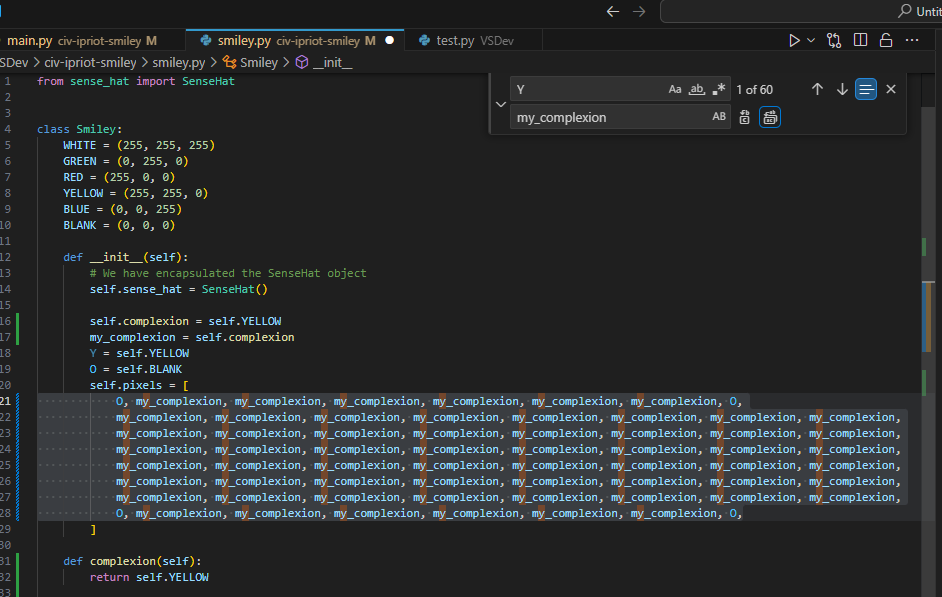
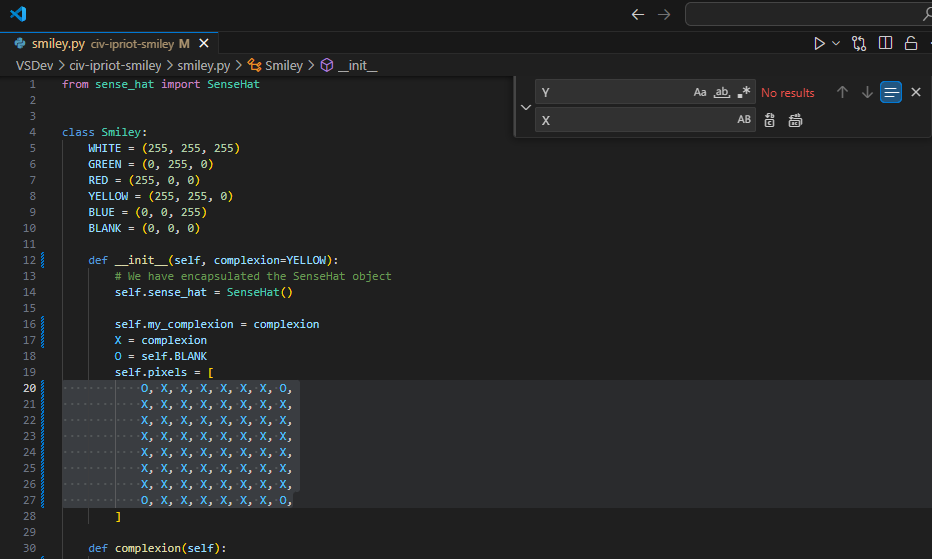
feat: flex colours implemented

diff --git a/smiley.py b/smiley.py
@@ -9,25 +9,26 @@ class Smiley:
     BLUE = (0, 0, 255)
     BLANK = (0, 0, 0)
 
-    def __init__(self):
+    def __init__(self, complexion=YELLOW):
         # We have encapsulated the SenseHat object
         self.sense_hat = SenseHat()
 
-        Y = self.YELLOW
+        self.my_complexion = complexion
+        X = complexion
         O = self.BLANK
         self.pixels = [
-            O, Y, Y, Y, Y, Y, Y, O,
-            Y, Y, Y, Y, Y, Y, Y, Y,
-            Y, Y, Y, Y, Y, Y, Y, Y,
-            Y, Y, Y, Y, Y, Y, Y, Y,
-            Y, Y, Y, Y, Y, Y, Y, Y,
-            Y, Y, Y, Y, Y, Y, Y, Y,
-            Y, Y, Y, Y, Y, Y, Y, Y,
-            O, Y, Y, Y, Y, Y, Y, O,
+            O, X, X, X, X, X, X, O,
+            X, X, X, X, X, X, X, X,
+            X, X, X, X, X, X, X, X,
+            X, X, X, X, X, X, X, X,
+            X, X, X, X, X, X, X, X,
+            X, X, X, X, X, X, X, X,
+            X, X, X, X, X, X, X, X,
+            O, X, X, X, X, X, X, O,
         ]
 
     def complexion(self):
-        return self.YELLOW
+        return self.my_complexion
 
     def dim_display(self, dimmed=True):
         """

diff --git a/sad.py b/sad.py
@@ -5,7 +5,7 @@ from smiley import Smiley
 
 class Sad(Smiley, Blinkable):
     def __init__(self):
-        super().__init__()
+        super().__init__(complexion=self.BLUE)
 
         self.draw_mouth()
         self.draw_eyes()

diff --git a/knowledge_and_evidence.md b/knowledge_and_evidence.md
@@ -357,6 +357,7 @@ Include a screenshot of the sad smiley or the modified `main.py`:
   2. **Test color functionality for the Sad smiley:** Execute the program to verify that the Sad smiley now appears blue.
 
   3. **Ensure the Happy smiley remains yellow:** Confirm that changes to the Sad smiley do not affect the default color of the Happy smiley, which should still display in yellow.
+   ![Happy and Sad](./screenshots/happy_sad.png)
 
   4. **Design and Implement An Angry Smiley:** Create an Angry smiley class that inherits from the `Smiley` class. Set the color of the Angry smiley to red by passing `self.RED` as the `complexion` argument in the superclass call.
 
